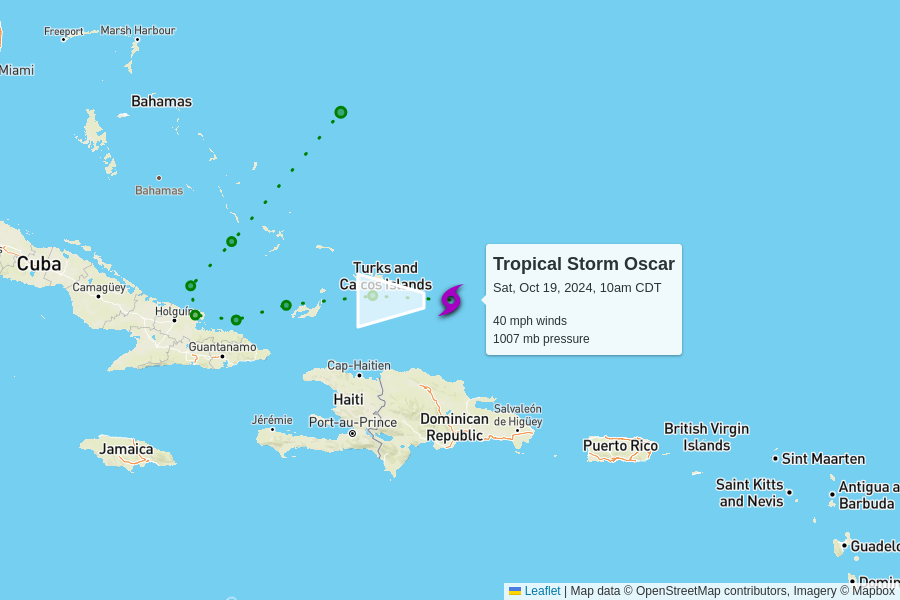
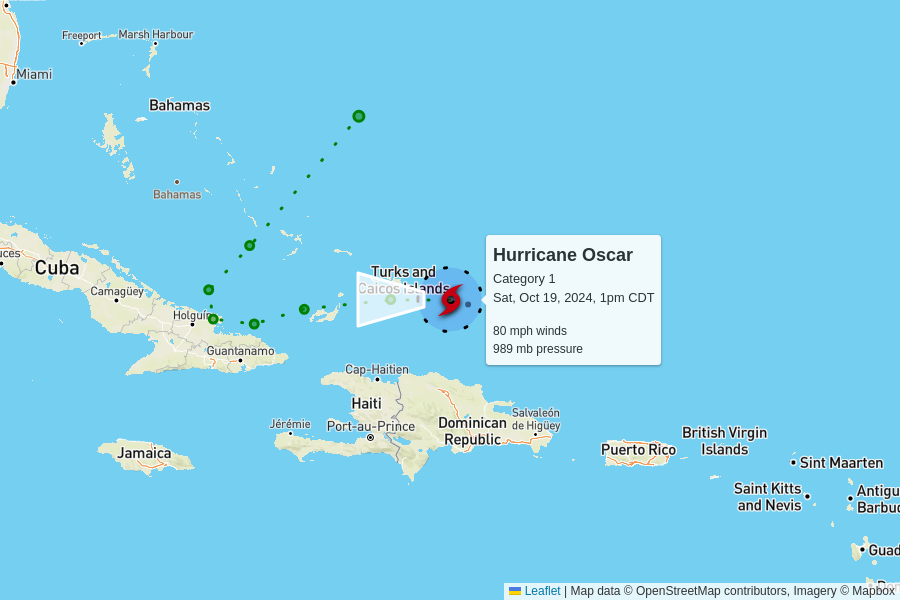
automatic update

diff --git a/docs/index.html b/docs/index.html
@@ -104,7 +104,7 @@
         <td colspan="6" class="storm category-0" >
           <h2>
             Tropical Storm Nadine
-            <p class="updated">last updated <span data-time>2024-10-19T16:00:00.000Z</span></p>
+            <p class="updated">last updated <span data-time>2024-10-19T18:00:00.000Z</span></p>
           </h2>
         </td>
       </tr>
@@ -119,8 +119,8 @@
       </tr>
       <tr>
         <td class="spacer"></td>
-        <td>60 mph<br>+10 mph since last update</td>
-        <td>1002 mb<br>+2 mb since last update</td>
+        <td>50 mph<br>-10 mph since last update</td>
+        <td>1003 mb<br>+1 mb since last update</td>
         <td>
           8 mph to the west
           <br/>
@@ -145,10 +145,10 @@
       
 
       <tr>
-        <td colspan="6" class="storm category-0" >
+        <td colspan="6" class="storm category-1" >
           <h2>
-            Tropical Storm Oscar
-            <p class="updated">last updated <span data-time>2024-10-19T15:00:00.000Z</span></p>
+            Hurricane Oscar - Category 1
+            <p class="updated">last updated <span data-time>2024-10-19T18:00:00.000Z</span></p>
           </h2>
         </td>
       </tr>
@@ -163,10 +163,10 @@
       </tr>
       <tr>
         <td class="spacer"></td>
-        <td>40 mph</td>
-        <td>1007 mb</td>
+        <td>80 mph<br>+40 mph since last update</td>
+        <td>989 mb<br>-18 mb since last update</td>
         <td>
-          13 mph to the west
+          12 mph to the west
           <br/>
           <span style="display: inline-block; font-size: 1.5em; transform: rotate(270deg);">↑</span>
         </td>
